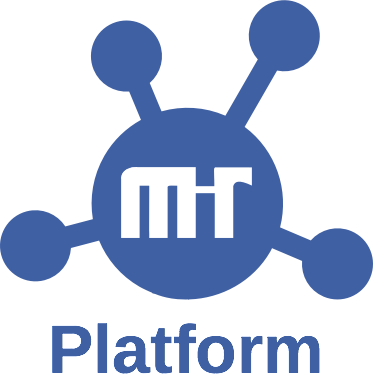
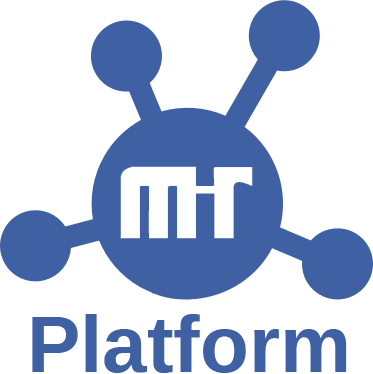
Commit

diff --git a/APIServer/ServerWeb/web/assets/css/xenon-core-mod.css b/APIServer/ServerWeb/web/assets/css/xenon-core-mod.css
@@ -793,7 +793,7 @@ body {
   z-index: 1;
 }
 .sidebar-menu .logo-env {
-  padding: 30px 45px;
+  padding: 10px 70px;
   border-bottom: 1px solid #313437;
 }
 .sidebar-menu .logo-env .logo {
@@ -2036,19 +2036,20 @@ body.chat-open .user-info-navbar a[data-toggle="chat"] {
   top: 0px;
   left: 0;
   right: 0;
-  background: #68b828;
+  background: white; <!--johneisenheim-->
   display: none;
 }
 .user-info-navbar .user-info-menu > li.hover-line:hover:before,
 .user-info-navbar .user-info-menu > li.hover-line.open:before {
   display: block;
+  background: #3b5998; <!--johneisenheim-->
 }
 .user-info-navbar .user-info-menu > li > a {
   position: relative;
   display: block;
   padding: 30px 20px;
   color: #979898;
-  <!--border-bottom: 1px solid #ffffff;-->
+  <!--border-bottom: 1px solid #ffffff; johneisenheim-->
   top: 1px;
   z-index: 5;
 }
@@ -2057,7 +2058,7 @@ body.chat-open .user-info-navbar a[data-toggle="chat"] {
   line-height: 1;
 }
 .user-info-navbar .user-info-menu > li > a:hover {
-  color: #3b5998;  <!--johneisenheim-->
+  color: #606161;
 }
 .user-info-navbar .user-info-menu > li > a .badge {
   font-size: 9px;
@@ -2237,7 +2238,7 @@ body.chat-open .user-info-navbar a[data-toggle="chat"] {
 .navbar.horizontal-menu .navbar-inner > .nav > li .dropdown-menu .dropdown-menu-list li a {
   position: relative;
   display: block;
-  padding: 20px 30px;
+  padding: 20px 7px; <!--johneisenheim-->
   color: #979898;
 }
 .user-info-navbar .user-info-menu > li .dropdown-menu .dropdown-menu-list li a .line,
@@ -2373,7 +2374,7 @@ body.chat-open .user-info-navbar a[data-toggle="chat"] {
 }
 .user-info-navbar .user-info-menu > li .dropdown-menu.notifications,
 .navbar.horizontal-menu .navbar-inner > .nav > li .dropdown-menu.notifications {
-  width: 370px;
+  width: 230px; <!--johneisenheim-->
 }
 .user-info-navbar .user-info-menu > li .dropdown-menu.notifications .dropdown-menu-list,
 .navbar.horizontal-menu .navbar-inner > .nav > li .dropdown-menu.notifications .dropdown-menu-list {
@@ -6837,9 +6838,4 @@ pre {
     padding-top: 15px;
     padding-bottom: 48px;
   }
-}
-
-.user-info-navbar .user-info-menu >li.active{
-    border-color: #f3f3f3;
-    background-color: #fafafa;
 }

diff --git a/APIServer/ServerWeb/web/login.html b/APIServer/ServerWeb/web/login.html
@@ -23,19 +23,19 @@
 	<script src="assets/js/jquery-1.11.1.min.js"></script>
 	<script>
 		jQuery(document).ready(function($){
-			if(localStorage.getItem("username")!=null){
-				if(localStorage.getItem("typology")=="professor"){
-					alert("Professor");
-				}
-				if(localStorage.getItem("typology")=="student"){
-					window.location.replace("offertaFormativaStudente.html");
-				}
-				if(localStorage.getItem("typology")=="Organization"){
-					alert("Organization");
-				}
-				if(localStorage.getItem("typology")=="Administrator"){
-					alert("Administrator");
-				}
+			if(localStorage.getItem("username")!== null){
+                
+                switch( localStorage.getItem("typology") ){
+                        case 'professor':
+                        break;
+                        case 'student':
+                            window.location.replace("offertaFormativaStudente.html");
+                        break;
+                        case 'organization':
+                        break;
+                        case 'administrator':
+                        break;
+                }
 			}
 		});
 	</script>
@@ -303,7 +303,7 @@
 							localStorage.setItem("dottorato",myArray[3]);
 							localStorage.setItem("superAmministratore",myArray[4]);
 							
-							if(localStorage.getItem("typology")=="student"){
+							if(localStorage.getItem("typology")==="student"){
 								var url = 'offertaFormativaStudente.html';
                                 window.location.href= url;
 							}

diff --git a/APIServer/ServerWeb/web/_offertaFormativaStudente.html b/APIServer/ServerWeb/web/_offertaFormativaStudente.html
@@ -14,7 +14,7 @@
 	<link rel="stylesheet" href="assets/css/fonts/linecons/css/linecons.css">
 	<link rel="stylesheet" href="assets/css/fonts/fontawesome/css/font-awesome.min.css">
 	<link rel="stylesheet" href="assets/css/bootstrap.css">
-	<link rel="stylesheet" href="assets/css/xenon-core.css">
+	<link rel="stylesheet" href="assets/css/xenon-core-mod.css">
 	<link rel="stylesheet" href="assets/css/xenon-forms.css">
 	<link rel="stylesheet" href="assets/css/xenon-components.css">
 	<link rel="stylesheet" href="assets/css/xenon-skins.css">
@@ -41,12 +41,12 @@
 			
 			<div class="sidebar-menu-inner">	
 				<header class="logo-env">
-					<div class="logo">
+					<center><div class="logo">
 						<a href="_offertaFormativaStudente.html" class="logo">
-							<img src="assets/images/mitforsite.png" width="80" alt="" class="hidden-xs" />
-							<img src="assets/images/mitforsitemini.png" width="80" alt="" class="visible-xs" />
+							<img src="assets/images/mitforsite2.png" width="80" alt="" class="hidden-xs" />
+							<img src="assets/images/mitforsitemini2.png" width="80" alt="" class="visible-xs" />
 						</a>
-					</div>	
+					</div>	</center>
 					<!-- This will toggle the mobile menu and will be visible only on mobile devices -->
 					<div class="mobile-menu-toggle visible-xs">
 						<a href="#" data-toggle="user-info-menu">

diff --git a/APIServer/ServerWeb/web/offertaFormativaStudente.html b/APIServer/ServerWeb/web/offertaFormativaStudente.html
@@ -25,7 +25,7 @@
 		jQuery(document).ready(function($){
 		
 			$(window).on('beforeunload',function(e) {
-				if(localStorage.getItem("rememberMeForLogin")=="no"){
+				if(localStorage.getItem("rememberMeForLogin")==="no"){
 					localStorage.removeItem("username");
 					localStorage.removeItem("typology");
 					localStorage.removeItem("classPermission");
@@ -43,7 +43,7 @@
 			$("#funzionalita1Permission_"+localStorage.getItem("offertaFormativa")).empty();	
 			$("#funzionalita3Permission_"+localStorage.getItem("offertaFormativa")).empty();	
 			
-			if(localStorage.getItem("username")==null){
+			if(localStorage.getItem("username")===null){
 				window.location.replace("pageError.html");
 			}
 			
